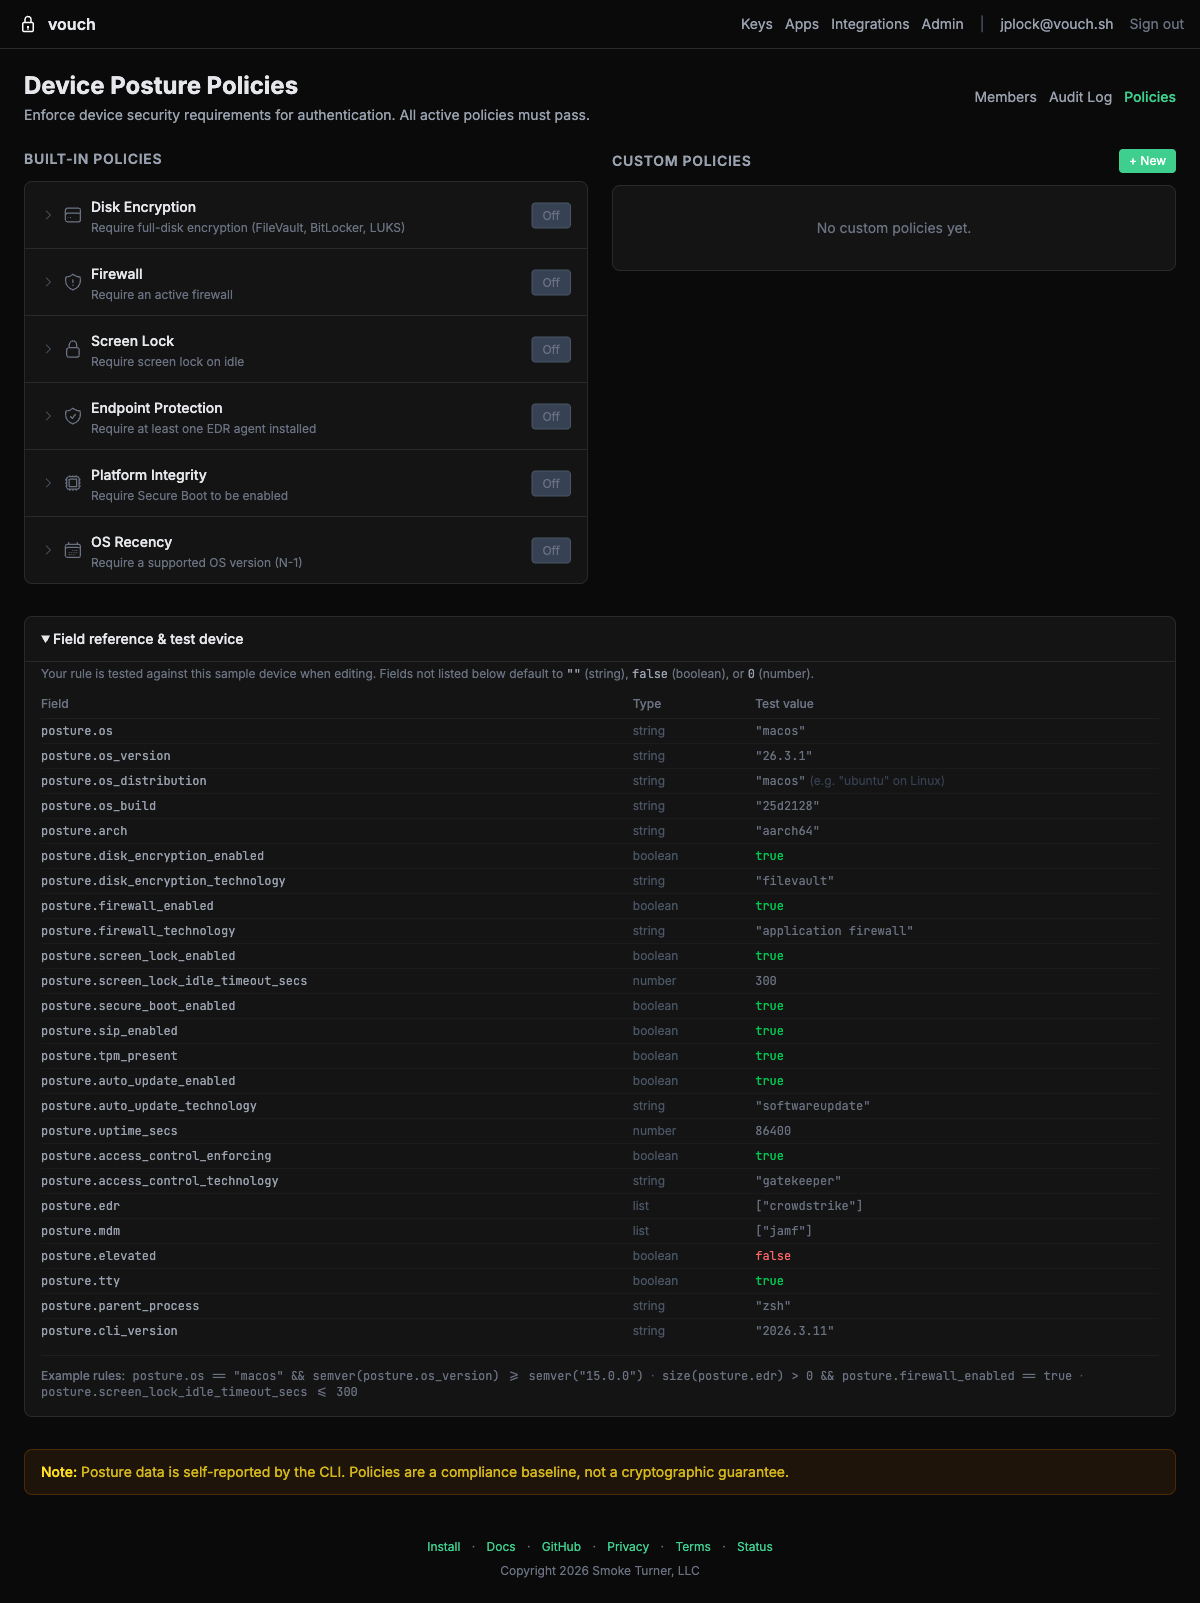
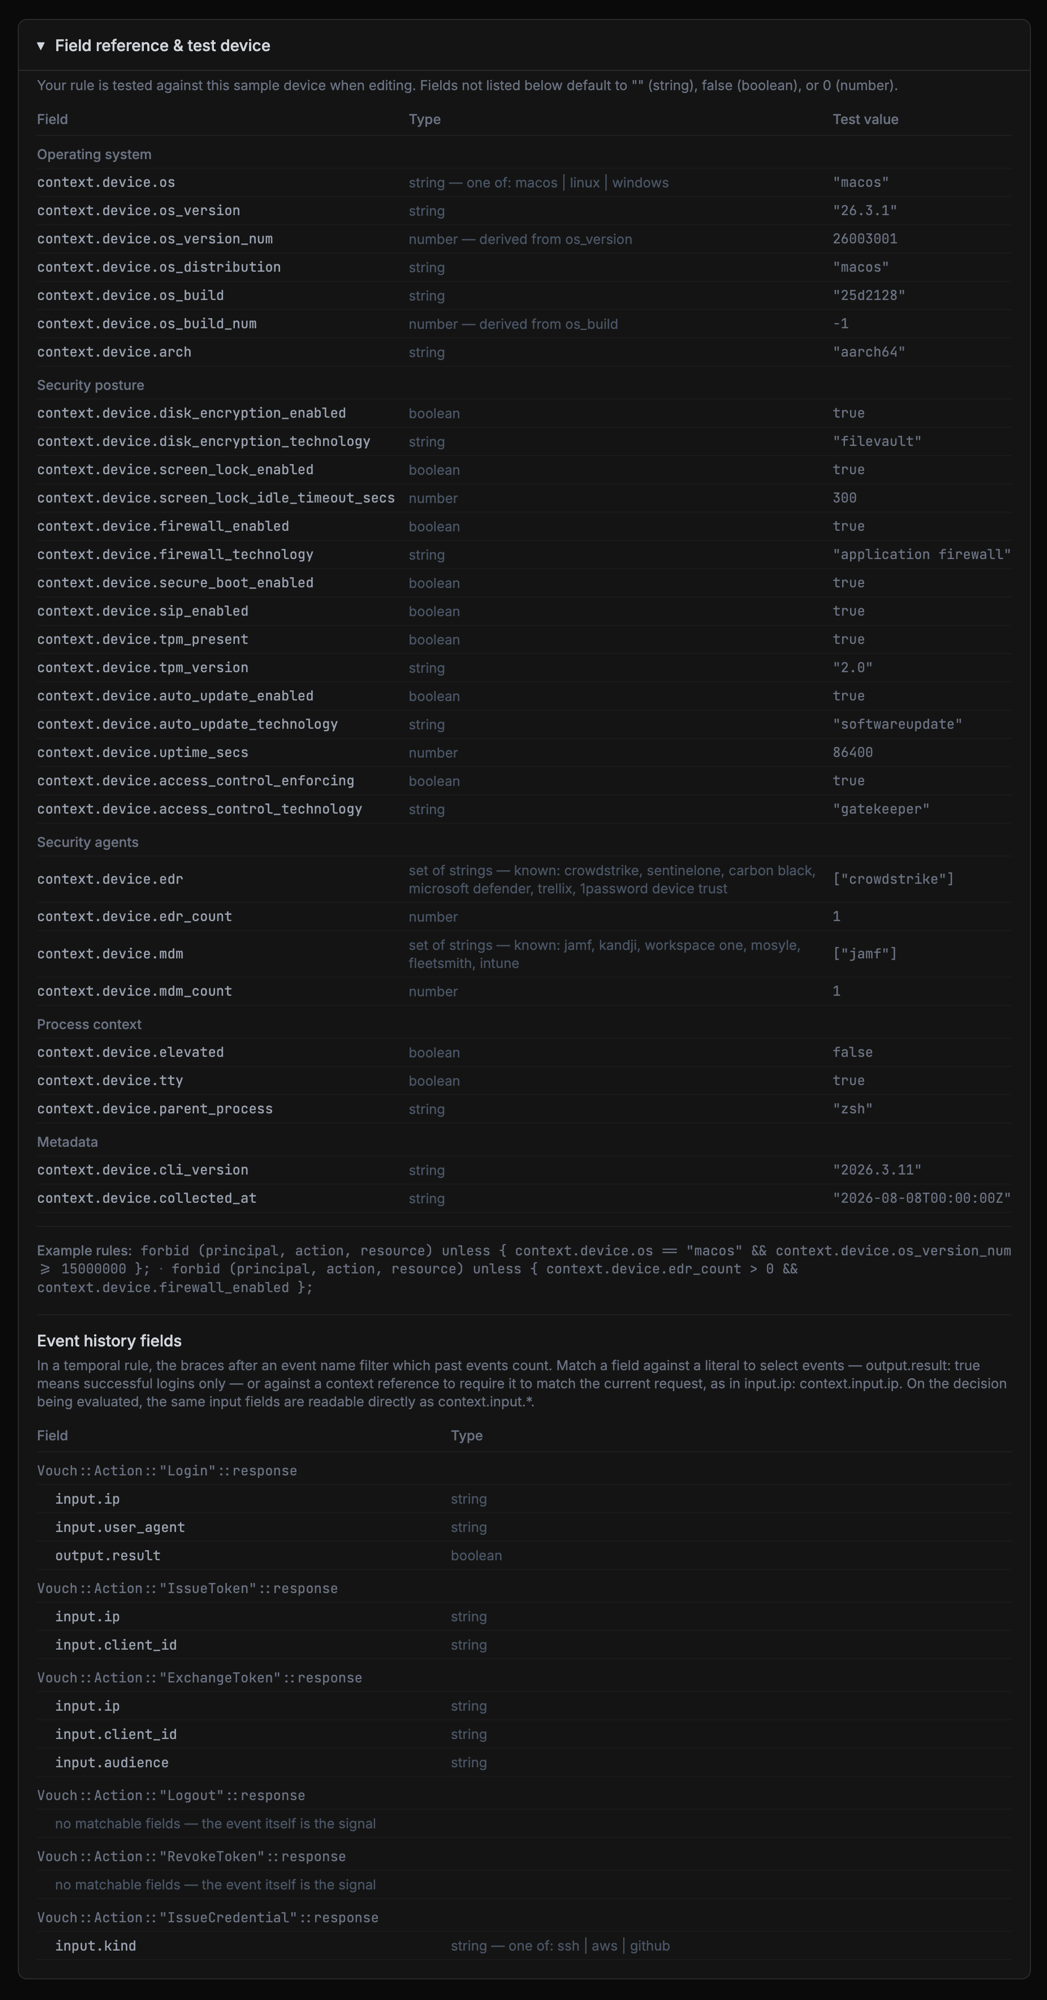
docs: recapture policy screenshots for the guided rule builder UI (#50)
Replace the four admin-policies screenshots, which showed the old
free-text CEL editor, with captures of the current UI: the policies
list with caps in the header, the guided rule builder with a live
Dogwood preview, a saved custom policy with its source expando, and
the generated field reference. Expand the detected EDR and MDM agent
lists to match the in-app catalog (adds Trellix, 1Password Device
Trust, Workspace ONE, Mosyle, Fleetsmith) and align the policies-list
alt text with the new capture.

diff --git a/content/docs/device-posture.md b/content/docs/device-posture.md
@@ -189,11 +189,11 @@ Requires at least one endpoint detection and response (EDR) agent to be running.
 
 **Why it matters:** EDR agents detect and respond to malware, ransomware, and other threats that could compromise developer credentials or inject into build pipelines.
 
-**Detected agents:** CrowdStrike, SentinelOne, Carbon Black, Microsoft Defender for Endpoint.
+**Detected agents:** CrowdStrike, SentinelOne, Carbon Black, Microsoft Defender for Endpoint, Trellix, 1Password Device Trust.
 
 ### MDM enrollment
 
-Requires at least one mobile device management (MDM) agent to be detected (Jamf, Kandji, Intune, …).
+Requires at least one mobile device management (MDM) agent to be detected (Jamf, Kandji, Workspace ONE, Mosyle, Fleetsmith, Intune).
 
 **Why it matters:** MDM enrollment verifies the device is managed by your organization — it can be remotely locked, wiped, and kept in compliance — without requiring a specific EDR product.
 
@@ -417,7 +417,7 @@ Policies are managed from the **Vouch admin dashboard** by organization administ
 2. Toggle a policy to **Active** to begin enforcement.
 3. The policy takes effect immediately for all subsequent token requests.
 
-![Device Posture Policies page listing built-in and custom policies with toggle controls](/images/admin/admin-policies.png)
+![Device Posture Policies page listing built-in policies with toggle controls and the custom-policy caps in the header](/images/admin/admin-policies.png)
 
 ### Creating a custom policy
 

diff --git a/content/docs/admin.md b/content/docs/admin.md
@@ -72,7 +72,7 @@ For full SCIM setup instructions including identity provider configuration, see 
 
 The **Policies** page lets administrators enforce device security requirements. Built-in policies cover disk encryption, firewall, screen lock, endpoint protection, MDM enrollment, platform integrity, and OS recency, plus history-aware policies for rate limiting, failed-login bursts, and step-up on token exchange. Custom policies are composed in a guided rule builder, or written directly as [Dogwood](https://dogwood-policy.github.io/dogwood/) (Cedar-based) policy text.
 
-![Device Posture Policies page listing built-in and custom policies with toggle controls](/images/admin/admin-policies.png)
+![Device Posture Policies page listing built-in policies with toggle controls and the custom-policy caps in the header](/images/admin/admin-policies.png)
 
 For full details on available signals, custom policy rules, and enforcement behavior, see [Device Posture Policies](/docs/device-posture/).
 
